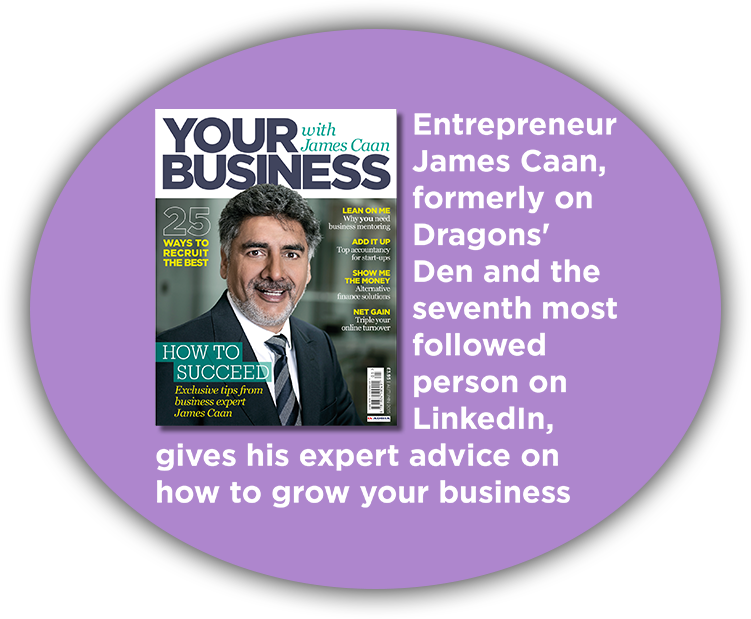
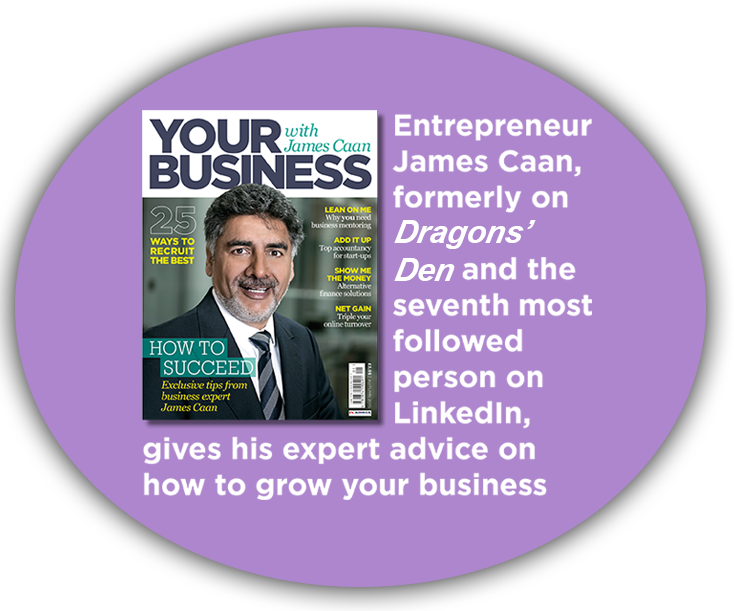
commit spelling errors and few editing

diff --git a/index.php b/index.php
@@ -10,13 +10,13 @@
 		<link rel="stylesheet" type="text/css" href="css/normalize.css">
 		<!-- Bootstrap CSS -->
 		<link rel="stylesheet" href="https://cdn.rawgit.com/twbs/bootstrap/v4-dev/dist/css/bootstrap.css">
-		
+
 
 	</head>
 	<body ng-app="validationApp" ng-controller="mainController">
 
-		
-		
+
+
 			<div class="container">
 				<a href="index.php"><img src="imgs/logo.png" width="100%" class="img-responsive logo"></a>
 			</div>
@@ -29,7 +29,7 @@
         </div>
       </section>
 
-			
+
 		<div class="container-fluid" id="bar-color">
 			<p class="container text-center">YOUR BUSINESS MAGAZINE <a href="#formme" class="btn btn-success">Download</a> </p>
 		</div>
@@ -38,12 +38,12 @@
 			<div class="row">
 				<div class="col-md-4">
 					<p>
-<h1 style="color:#1e5869">Welcome</h1>Guest edited by former Dragons’ Den investor and business guru, James Caan CBE, Your Business magazine gives you all the advice you need if you are starting and running your own business. From finance, to e-commerce and accountancy to marketing, Your Business is an expert-led publication that gives you the inside track on how to build and run a successful business.</p>	</div>
+<h1 style="color:#1e5869">Welcome</h1>Guest edited by former Dragons’ Den investor and business guru, James Caan CBE, <em>Your Business</em> magazine gives you all the advice you need if you are starting and running your own business. From finance, to e-commerce and accountancy to marketing, <em>Your Business</em> is an expert-led publication that gives you the inside track on how to build and run a successful business.</p>	</div>
 <div class="col-md-4 hide"><img src="imgs/yourbusiness.png" width="" class="img-responsive pull-right"></div>
 				<div class="col-md-4" id="hide" >
 					<h1 class="text-center" style="color:#1e5869" id="formme">Get your free copy</h1>
 
-							<!-- SIGNUP FORM  -->	
+							<!-- SIGNUP FORM  -->
 				<form class="form-group" method="post" action="<?=$_SERVER['PHP_SELF']?>" name="userReg" ng-submit="submitForm(userReg.$valid)" novalidate>
 
 							<div class="form-group" g-class="{ 'has-error' : userReg.email.$invalid && !userReg.email.$pristine }">
@@ -64,10 +64,10 @@
 		    	<?php
 
         include_once('conn.php');
-         
-//Initialise connection and set error message 
+
+//Initialise connection and set error message
         if (isset($_POST['submit'])) {
-	
+
 	if (!$dbcon) {
 		die('unable to connect to the ' . mysql_error());
 	}
@@ -87,8 +87,8 @@ if (!$sql) {
   die('Invalid query: ' . mysql_error());
 }
 else{
-echo '<div class="alert alert-info text-center"><strong>Thanks You! </strong> please download YOUR BUSINESS MAGAZINE now.</div>
-					<a href="http://europe.nxtbook.com/emp/AtHome/YourBusinessWithJamesCaanAutumn2015/index.php" target="_new" class="btn text-center btn-danger-outline form-control">READ YOUR BUSINESS MAGAZINE</a></div>';
+echo '<div class="alert alert-info text-center"><a href="http://europe.nxtbook.com/emp/AtHome/YourBusinessWithJamesCaanAutumn2015/index.php" target="_new" class="text-center"><strong>Thank You! </strong> please download YOUR BUSINESS MAGAZINE now.
+				</a></div>';
 
 }
   mysql_close($dbcon);
@@ -98,33 +98,33 @@ echo '<div class="alert alert-info text-center"><strong>Thanks You! </strong> pl
 
 				</div>
 				<div class="col-md-4 text-center" id="show" style="margin-top:50px">
-					<div class="alert alert-info"><strong>Thanks You!</strong> please download YOUR BUSINESS MAGAZINE now.</div>
-					<a href="http://europe.nxtbook.com/emp/AtHome/YourBusinessWithJamesCaanAutumn2015/index.php" target="_new" class="btn btn-danger-outline">READ YOUR BUSINESS MAGAZINE</a></div>
+					<div class="alert alert-info"><strong>Thank You!</strong> please download YOUR BUSINESS MAGAZINE now.</div>
+					<a href="http://europe.nxtbook.com/emp/AtHome/YourBusinessWithJamesCaanAutumn2015/index.php" target="_new" class="btn btn-danger-outline">Thank You! please download YOUR BUSINESS MAGAZINE now.</a></div>
 			</div>
 		</div>
-		
+
 		<footer>
 			<div class="container text-center">
 				<div>
-					<img src="imgs/icons/fb.png" height="35px" width="35px"> 
+					<img src="imgs/icons/fb.png" height="35px" width="35px">
 					<img src="imgs/icons/tw.png" height="35px" width="35px">
 					<img src="imgs/icons/ln.png" height="35px" width="35px">
 				</div>
 				© 2015 EMP Media. All Rights Reserved. | <a href="#" class="active">Our Terms and Conditions</a>
 			</div>
-			
+
 
 		</footer>
-		
+
         <script src="js/angular.min.js"></script>
         <script src="https://ajax.googleapis.com/ajax/libs/angularjs/1.2.0rc1/angular-route.min.js"></script>
 		<!-- jQuery -->
 		<script src="https://ajax.googleapis.com/ajax/libs/jquery/2.1.4/jquery.min.js"></script>
 		<!-- Bootstrap JavaScript -->
 		<script src="https://cdn.rawgit.com/twbs/bootstrap/v4-dev/dist/js/bootstrap.js"></script>
-			
+
 		<script src="js/custom.js"></script>
-		
-		
+
+
 	</body>
 </html>
